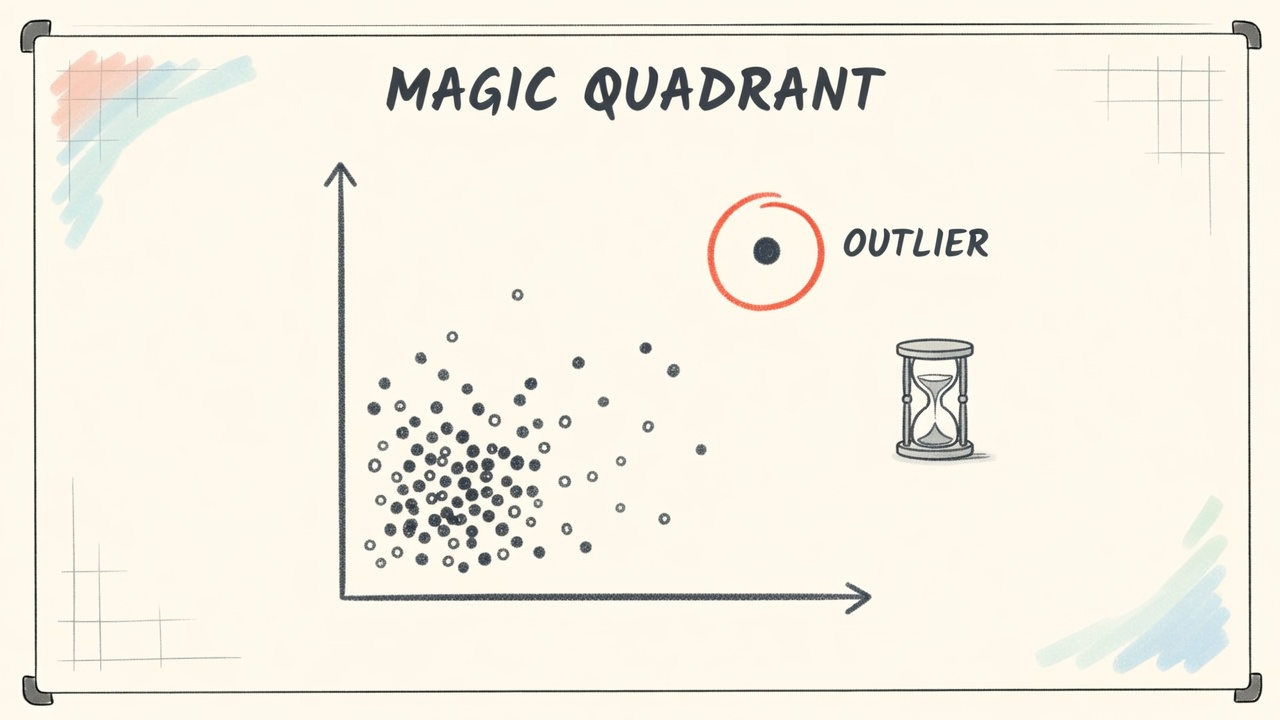
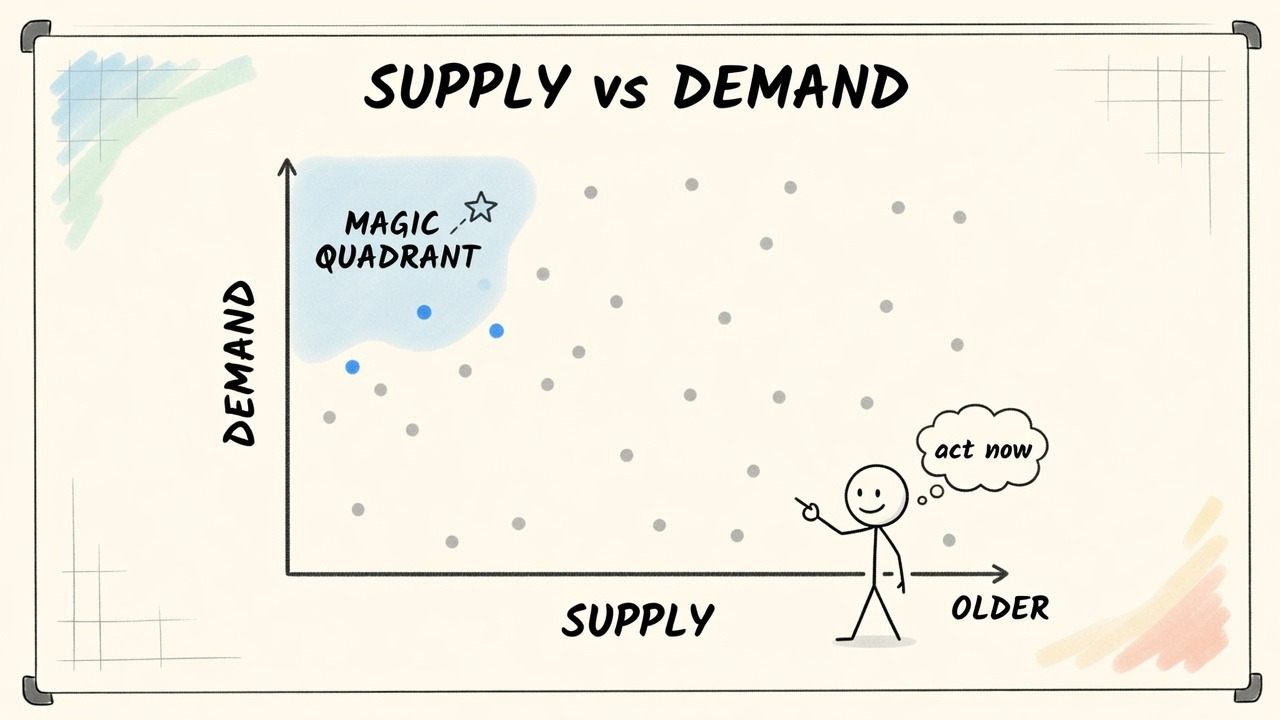
example: the magic quadrant beat uses the operator's supply vs demand sketch

diff --git a/skills/simple-artifact/example/index.html b/skills/simple-artifact/example/index.html
@@ -142,7 +142,7 @@ footer{margin-top:48px;padding-top:14px;border-top:1px solid var(--line);font-si
 <section class="beat"><div class="n">3.4 · The map</div><h3>Three sources of daily leads</h3><figure><img src="img/s08.jpg" alt="Sketch of three pipes labeled SHORT FORM, REFERRALS and RENTED pouring into one bucket, titled THREE SOURCES" loading="lazy"></figure><ul class="cues"><li>1. Short form content.</li><li>2. High trust referral leads.</li><li>3. Rented leads: affiliates, partnerships, paid ads.</li><li>Today: short form. The other two another day.</li></ul><div class="loop"><span class="q">?</span><p>Why will your short form posts never ask anyone to buy anything?</p></div></section>
 <section class="beat"><div class="n">3.5 · Step one</div><h3>Pick one platform. Just one.</h3><figure><img src="img/s09.jpg" alt="Sketch of a hand pointing at one phone in a row of five, the chosen one circled in red, titled PICK ONE" loading="lazy"></figure><ul class="cues"><li>TikTok, Instagram, X, Facebook, Threads, YouTube Shorts.</li><li>The one you are most comfortable on, ideally one you already use daily.</li><li>Every platform has a culture. Go against the flow and you read as the used car salesman.</li><li>Weigh where your ideal clients hang out, including age demographics.</li><li>Not on social yet? Start now. Follow, comment, support others before posting.</li></ul><div class="key">One platform, the one you already live on.</div><div class="loop"><span class="q">?</span><p>How did 8k followers in 8 months come from comments, not posts?</p></div></section>
 <section class="beat"><div class="n">3.6 · Step two</div><h3>Set up a professional profile</h3><figure><img src="img/s10.jpg" alt="Sketch of a phone profile page with banner, avatar and a circled link icon at the top, titled LINK IN BIO" loading="lazy"></figure><ul class="cues"><li>Community-professional bio, banner and photo where supported.</li><li>Main link at the top of the bio or profile.</li><li>Now &quot;see the link in my bio&quot; works, every time.</li></ul></section>
-<section class="beat"><div class="n">3.7 · Step three</div><h3>Research outliers: the magic quadrant</h3><figure><img src="img/s11.jpg" alt="Sketch of a scatter chart with one large dot in the upper right circled and labeled OUTLIER, with an hourglass, titled MAGIC QUADRANT" loading="lazy"></figure><ul class="cues"><li>Tool: Eden, link in the description. Finds trending topics that are outliers on any platform.</li><li>An outlier is the algorithm&#x27;s signal: this creator uniquely met demand in that moment.</li><li>Perishable. Supply catches up and the algorithm moves on.</li><li>Rule: 3x or more outliers, within a week of posting. The magic quadrant, video linked above.</li></ul><div class="key">3x outlier, under a week old. Fresh signal only.</div></section>
+<section class="beat"><div class="n">3.7 · Step three</div><h3>Research outliers: the magic quadrant</h3><figure><img src="img/s11.jpg" alt="Sketch of a supply versus demand chart with the magic quadrant shaded top left, three blue dots inside it, and a figure saying act now, titled SUPPLY vs DEMAND" loading="lazy"></figure><ul class="cues"><li>Tool: Eden, link in the description. Finds trending topics that are outliers on any platform.</li><li>An outlier is the algorithm&#x27;s signal: this creator uniquely met demand in that moment.</li><li>Perishable. Supply catches up and the algorithm moves on.</li><li>Rule: 3x or more outliers, within a week of posting. The magic quadrant, video linked above.</li></ul><div class="key">3x outlier, under a week old. Fresh signal only.</div></section>
 <section class="beat"><div class="n">3.8 · Step four</div><h3>Tear the winners down</h3><figure><img src="img/s12.jpg" alt="Sketch of a video frame taken apart on a workbench under a magnifying glass, titled TEAR DOWN" loading="lazy"></figure><ul class="cues"><li>Study packaging, format, method of delivery, images and thumbnails.</li><li>Do not copy. Do not reinvent the wheel either.</li><li>Use them as a guide. Add your taste and point of view.</li><li>To break through: say something new, and above all, useful.</li></ul></section>
 <section class="beat"><div class="n">3.9 · Step five</div><h3>Four parts of content that works</h3><figure><img src="img/s13.jpg" alt="Sketch of four stacked blocks labeled HOOK, BODY, WIN and CTA, titled FOUR PARTS" loading="lazy"></figure><ul class="cues"><li>Hook: the promise. Body: the value. Win: a small insight or tool. CTA.</li><li>Short form is no different, just tighter. Tear down any winner and the four are there.</li></ul><div class="key">Hook, body, win, CTA. Even in 30 seconds.</div></section>
 <section class="beat"><div class="n">3.10 · The rule</div><h3>The CTA is never &quot;buy my thing&quot;</h3><figure><img src="img/s14.jpg" alt="Sketch of a well, a gift box with an envelope, and a crossed-out price tag, titled FREE FIRST" loading="lazy"></figure><div class="vs"><div class="crowd"><b>What the crowd says</b><ul class=""><li>Every post should sell. Always pitch the offer.</li></ul></div><div class="me"><b>What I say</b><ul class=""><li>People do not like being sold on short form. Sell there and you poison your well.</li><li>Point to something free to capture the email, or to a long form piece.</li></ul></div></div><div class="key crit">Sell on short form and you poison the well.</div></section>
